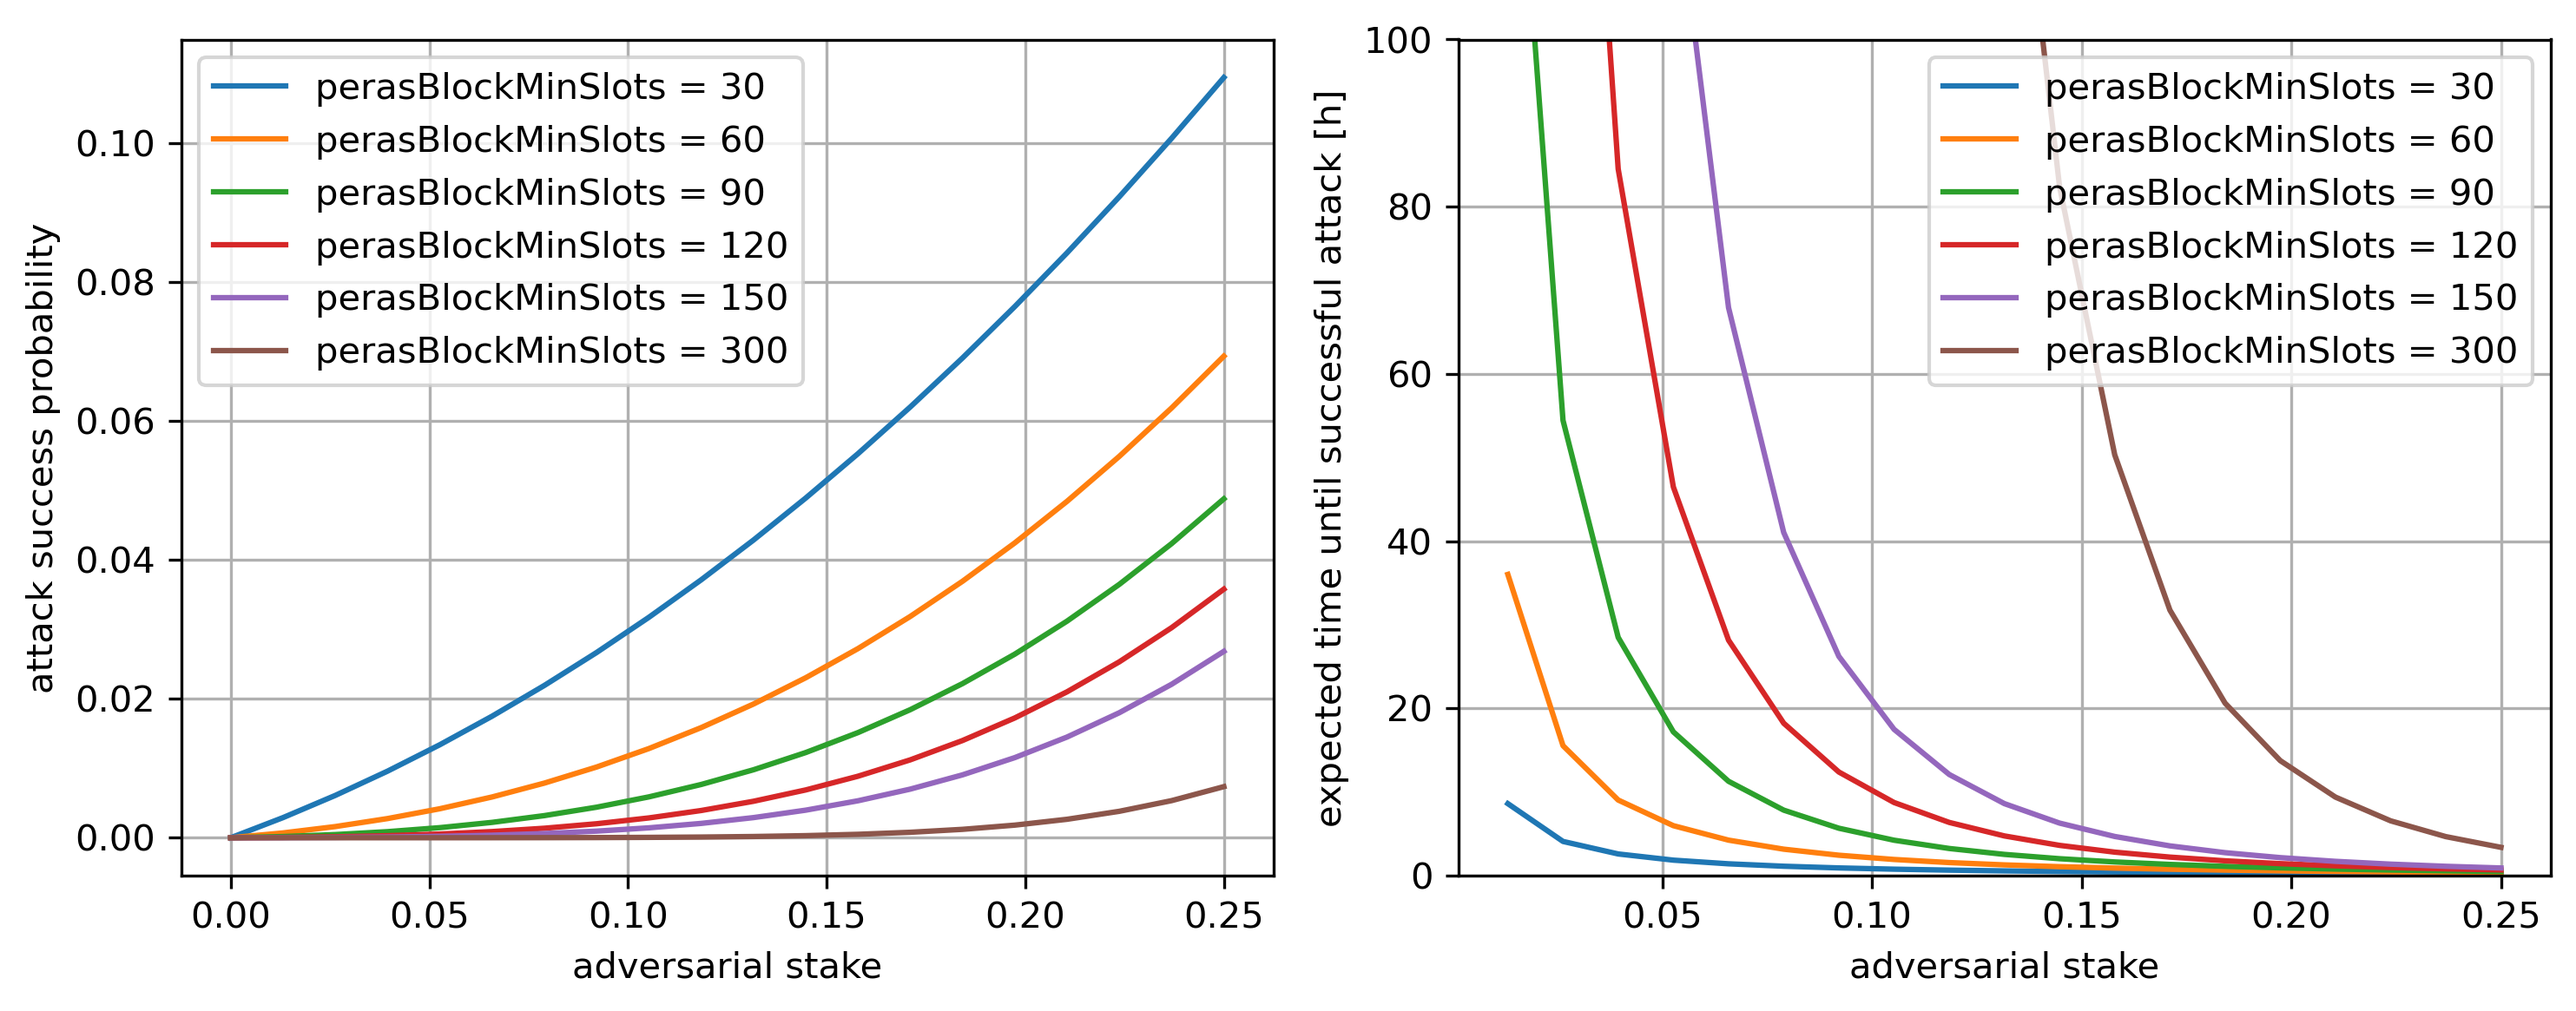
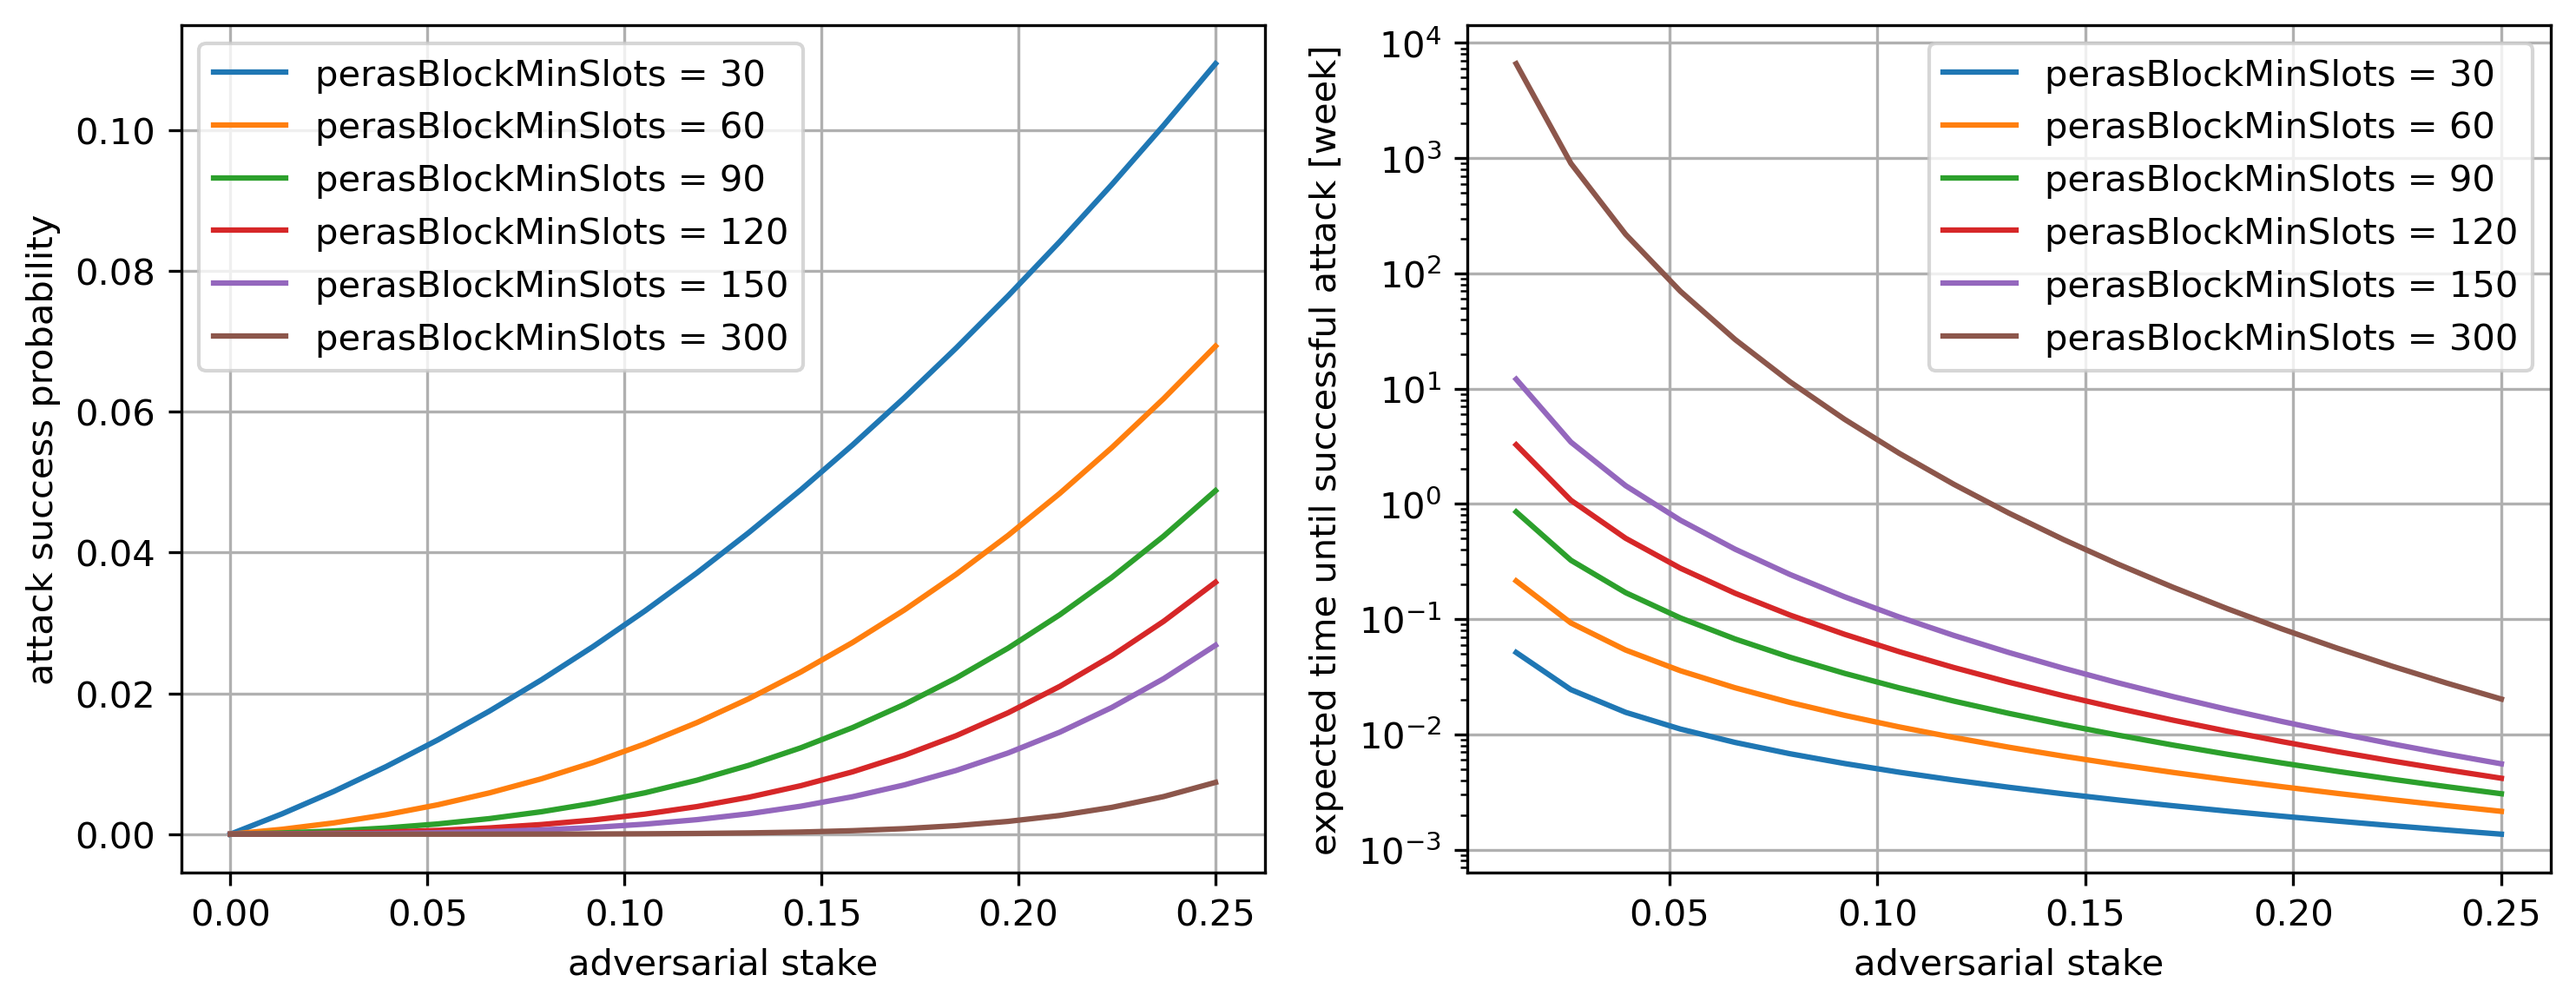
Vote splitting attack: logarithmic duration plot in weeks
As cooldown periods are rather long (multiple days), measuring the time until a
cooldown (due to a vote splitting attack) in weeks rather than hours sounds
appropriate.

Also, use logarithmic scale for a more comprehensive overview.

Changed region(s): [[0.0, 0.0, 0.9922, 0.9922], [0.8682, 0.4961, 0.8992, 0.5581], [0.7132, 0.2481, 0.7442, 0.2791]]

diff --git a/scripts/honest-vote-splitting.py b/scripts/honest-vote-splitting.py
@@ -34,7 +34,7 @@ alpha = np.linspace(0, 0.25, num=20)
 for perasBlockMinSlots in [30, 60, 90, 120, 150, 300]:
     Ps = np.vectorize(lambda a: Psuccess(a, perasBlockMinSlots))(alpha)
     ax1.plot(alpha, Ps, label=f"perasBlockMinSlots = {perasBlockMinSlots}")
-    expected = 90 / Ps / 3600
+    expected = 90 / Ps / 3600 / 24 / 7
     ax2.plot(alpha, expected, label=f"perasBlockMinSlots = {perasBlockMinSlots}")
 
 ax1.legend()
@@ -44,9 +44,9 @@ ax1.set_ylabel("attack success probability")
 
 ax2.legend()
 ax2.grid(True)
-ax2.set_ylim(0, 100)
 ax2.set_xlabel("adversarial stake")
-ax2.set_ylabel("expected time until successful attack [h]")
+ax2.set_ylabel("expected time until successful attack [week]")
+ax2.set_yscale("log")
 
 fig.tight_layout()
 fig.savefig("plot-honest-vote-splitting.png", dpi=300, bbox_inches="tight")
